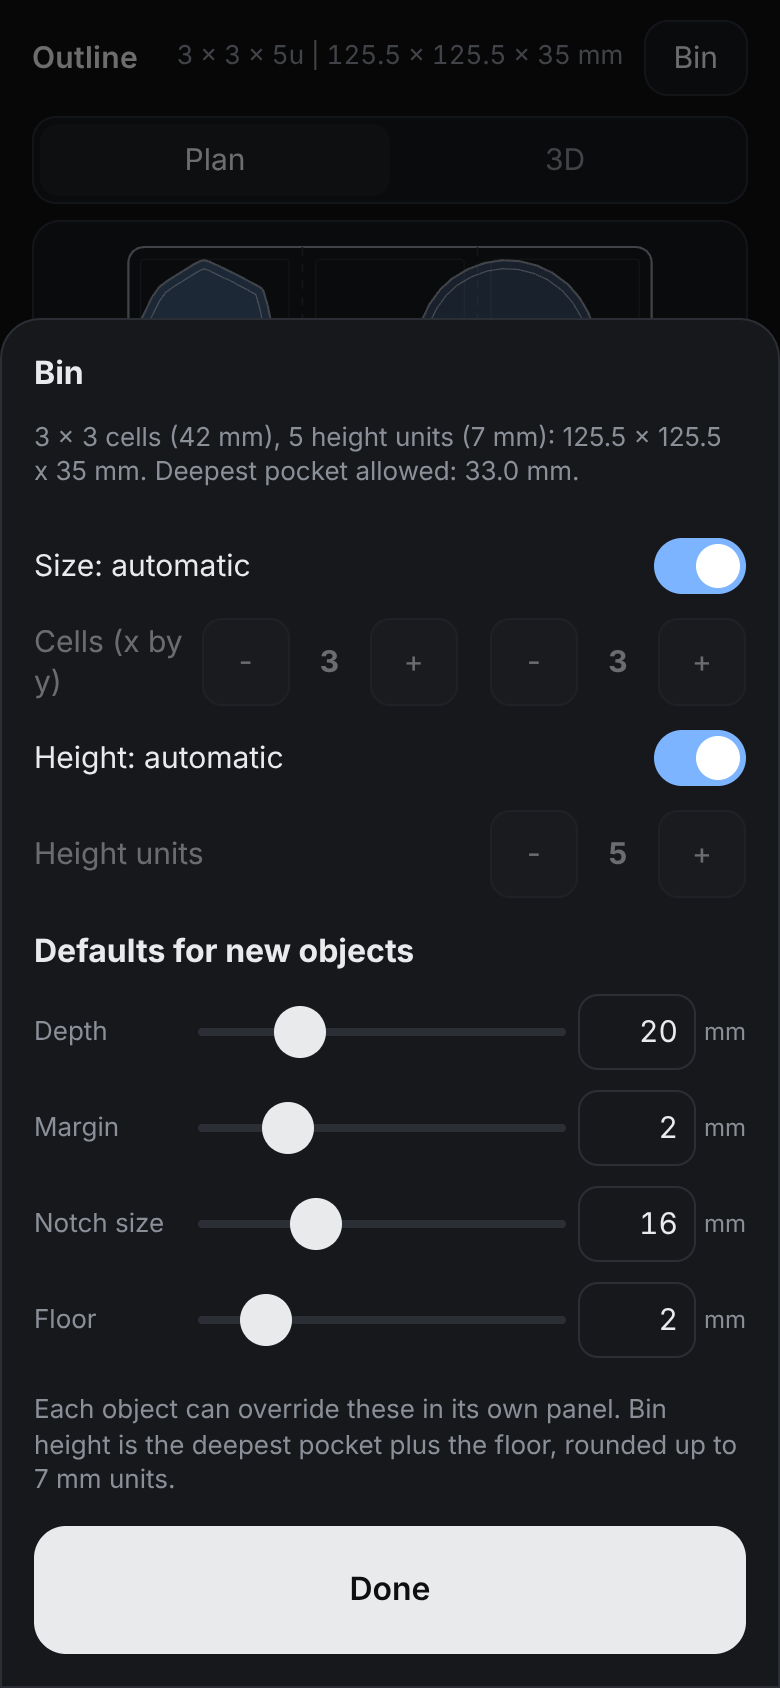
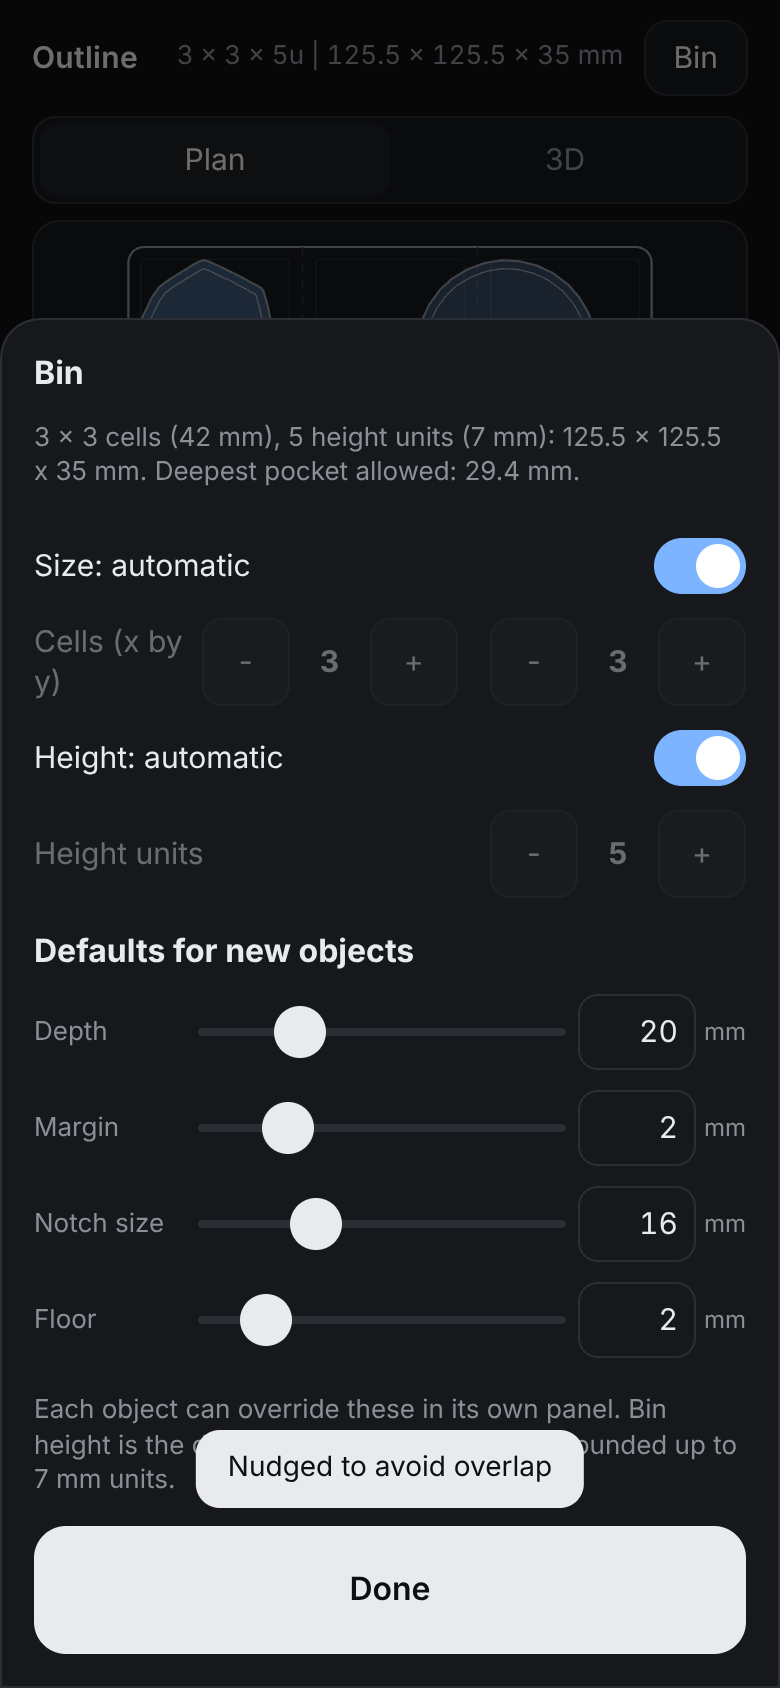
Fix pocket floor cutting through foot grooves (depth 10 'black cross' slots): floor >= footH+0.8; regression test; sw v7

Changed region(s): [[0.2462, 0.8318, 0.7692, 0.8934]]

diff --git a/dist/js/bin.js b/dist/js/bin.js
@@ -3,6 +3,7 @@ import Module from '../vendor/manifold.js';
 import { bbox, rotPt, pointAtT, ensureCCW } from './geom.js';
 
 export const GF = { pitch: 42, hUnit: 7, clearance: 0.5, topR: 3.75, foot: { chamfer1: 0.8, vert: 1.8, chamfer2: 2.15 }, wall: 1.2, maxUnits: 12 };
+GF.minFloorAboveFoot = 0.8; // min material between foot-groove top (z=4.75) and pocket floor
 GF.footH = GF.foot.chamfer1 + GF.foot.vert + GF.foot.chamfer2; // 4.75
 let M = null;
 export async function initManifold() { if (M) return M; const w = await Module(); w.setup(); M = w; return M; }
@@ -40,7 +41,7 @@ function worldXf(x, o) { return x.rotate(o.rot || 0).translate([o.x, o.y]); }
 
 // Analyse project: effective values, bin size, issues. Returns plain data + CrossSections (caller keeps them only transiently).
 export function analyze(project) {
-  const { wall } = GF, floor = project.floor;
+  const { wall } = GF, floor = Math.max(project.floor, GF.footH + GF.minFloorAboveFoot); // pocket floor must stay above the foot grooves (z = footH), else the cut opens slots along the cell boundaries
   const items = project.objects.map((o) => {
     const eff = effective(project, o), pk = worldXf(localPocket(o, eff.margin), o), b = pk.bounds();
     return { o, eff, pk, b };

diff --git a/dist/js/app.js b/dist/js/app.js
@@ -125,7 +125,7 @@ function renderPanel() {
   box.appendChild(actionsEl(o, i, info));
   { const mr = minRect(o.outline), pr = minRect(info.poly), n = document.createElement('div'); n.className = 'note'; n.style.cssText = 'font-size:12px;opacity:.75;margin:2px 0 6px';
     n.textContent = `Object ${r1(mr.l)} x ${r1(mr.w)} mm, pocket ${r1(pr.l)} x ${r1(pr.w)} mm (with ${r1(info.eff.margin)} mm margin; long x short side)`; box.appendChild(n); }
-  box.appendChild(mk('depth', 'Depth', 1, P().height.auto ? GF.maxUnits * 7 - P().floor : a.maxDepth, 0.5));
+  box.appendChild(mk('depth', 'Depth', 1, P().height.auto ? GF.maxUnits * 7 - Math.max(P().floor, GF.footH + GF.minFloorAboveFoot) : a.maxDepth, 0.5));
   box.appendChild(mk('margin', 'Margin', 0, 10, 0.1));
   box.appendChild(mk('notch', 'Notch size', 6, 40, 0.5));
   box.appendChild(field('Rotation', { min: -180, max: 180, step: 1, value: o.rot || 0, unit: 'deg', onSet: (v) => { o.rot = v; resolveOverlap(o); refresh(); } }));

diff --git a/dist/sw.js b/dist/sw.js
@@ -1,4 +1,4 @@
-const V = 'gf-outline-v6', SMART = 'gf-smart-v2'; // SMART: Smart select model + onnxruntime, cached on first use (about 60 MB)
+const V = 'gf-outline-v7', SMART = 'gf-smart-v2'; // SMART: Smart select model + onnxruntime, cached on first use (about 60 MB)
 const FILES = ['./', 'index.html', 'style.css', 'manifest.webmanifest', 'sheet.html', 'sheet.svg', 'sheet.pdf', 'icons/icon-192.png', 'icons/icon-512.png',
   'js/app.js', 'js/bin.js', 'js/capture.js', 'js/export2d.js', 'js/geom.js', 'js/sheetdef.js', 'js/view3d.js', 'js/vision.js', 'js/smart.js',
   'vendor/manifold.js', 'vendor/manifold.wasm', 'vendor/three.module.js', 'vendor/three.core.js', 'vendor/OrbitControls.js', 'vendor/opencv.js'];

diff --git a/tests/depth_notch_test.py b/tests/depth_notch_test.py
@@ -1,0 +1,21 @@
+# Regression: pocket depth / notch combos must stay watertight and must not open slots in the foot grooves
+# (bug: depth 10 -> bin 14 mm, floor 4 mm < foot height 4.75, pocket cut through the foot grooves -> black cross in 3D).
+# usage: venv with trimesh+shapely; python3 tests/depth_notch_test.py
+import subprocess, sys, trimesh, os
+here = os.path.dirname(os.path.abspath(__file__)); fails = 0
+for depth in [5, 10, 15, 20, 30]:
+    for nn in [0, 1, 2, 3]:
+        out = f'/tmp/dn_{depth}_{nn}.stl'
+        info = subprocess.run(['node', os.path.join(here, 'gen_depth_stl.mjs'), str(depth), str(nn), out], capture_output=True, text=True, check=True).stdout.strip().splitlines()[-1]
+        nx, ny, H = [float(v) for v in info.split()[:3]]
+        m = trimesh.load(out); cells = int(nx * ny)
+        loops = lambda z: len(m.section(plane_origin=[0, 0, z], plane_normal=[0, 0, 1]).discrete)
+        l_foot, l_above = loops(4.6), loops(5.2)
+        ok = m.is_watertight and m.is_volume and l_foot == cells and l_above == 1 and abs(m.bounds[1][2] - H) < 1e-3
+        # pocket floor: lowest z of any upward-facing face above the feet must be >= footH + 0.8 - 0.2 (notch sphere tip)
+        up = m.triangles_center[(m.face_normals[:, 2] > 0.99) & (m.triangles_center[:, 2] > 4.8)][:, 2]
+        floorz = float(up.min()) if len(up) else None
+        ok = ok and (floorz is None or floorz >= 4.75 + 0.8 - 0.25)
+        print(f'depth {depth:2d} notches {nn} {info}: watertight={m.is_watertight} loops@4.6={l_foot}/{cells} loops@5.2={l_above} lowest upward face z={floorz} {"OK" if ok else "FAIL"}')
+        fails += not ok
+sys.exit(1 if fails else 0)

diff --git a/CHANGELOG.md b/CHANGELOG.md
@@ -1,3 +1,6 @@
+## Fix: pocket floor cut through the feet (depth 10 'black cross')
+- Root cause: floor 2 mm gave bin height 14 mm / floor z = 4 mm, below the foot height (4.75 mm), so the pocket cut opened slots along the 42 mm cell boundaries (the foot grooves). Real geometry bug, also at depth 30 (floor z = 5). Floor is now at least 5.55 mm above the base. Regression: tests/depth_notch_test.py. sw cache v7.
+
 # Smart select "RangeError: Out of memory" on iPhone (sw cache v6, smart cache v2)
 CK's iPhone showed: "no available backend found. ERR: [wasm] RangeError: Out of memory". Most likely cause (not reproducible on desktop WebKit/Chromium): the onnxruntime-web wasm build creates a *shared* WebAssembly.Memory with maximum 65536 pages (4 GB); iOS Safari fails to reserve that. vendor/ort/ort-wasm-simd-threaded.mjs is patched to maximum 8192 pages (512 MB; peak actually used is about 350 MB). Also: models are fetched and created one after the other and their buffers dropped, graph optimisation off, memory arena and pattern off, the encoder session is released after the image is analysed (the embedding is copied out), tap coordinates are clamped to the image, and any failure shows a clear message with a "Details:" line, disables the Smart buttons on memory errors and leaves the classic method untouched. Tests: `PWB=webkit node tests/smart_selftest.mjs` (3 real photos, taps at 1x/4x/8x zoom and at corners, simulated OOM), `tests/mem_probe.mjs` (peak wasm heap). A real iPhone could not be tested.
 

diff --git a/README.md b/README.md
@@ -35,7 +35,7 @@ The default tolerance is the **most stable threshold**: where the foreground are
 ## Gridfinity geometry (checked against Zack Freedman's spec as documented by gridfinity-rebuilt-openscad and community docs)
 42 mm pitch, 7 mm height unit, bin footprint 41.5 mm (0.25 mm clearance per side; bin outer = 42n - 0.5 mm), top corner radius 3.75 mm.
 Foot per cell: 0.8 mm 45 degree chamfer, 1.8 mm vertical, 2.15 mm 45 degree chamfer (4.75 mm), bottom 35.6 mm square with 0.8 mm corner radius, concentric radii. Verified by slicing the exported STL: 35.7 (z=0.05), 37.0 (z=0.7), 37.2 (z=1.5 and 2.55), 40.0 (z=4.0), 41.4 (z=4.7) mm.
-Height = number of 7 mm units: the deepest pocket + floor (default 2 mm) rounded up to whole units (min 2, max 12). Each pocket depth is clamped to height - floor. Cells are chosen automatically (grow in whole cells) or set manually.
+Height = number of 7 mm units: the deepest pocket + floor (default 2 mm, but never less than foot height 4.75 + 0.8 = 5.55 mm: a thinner floor would cut through the foot grooves and open slots along the cell boundaries; so depth 10 gives a 3u / 21 mm bin) rounded up to whole units (min 2, max 12). Each pocket depth is clamped to height - floor. Cells are chosen automatically (grow in whole cells) or set manually.
 
 ### Simplifications (exactly)
 - **No stacking lip** (flat top at H = 7n mm).
